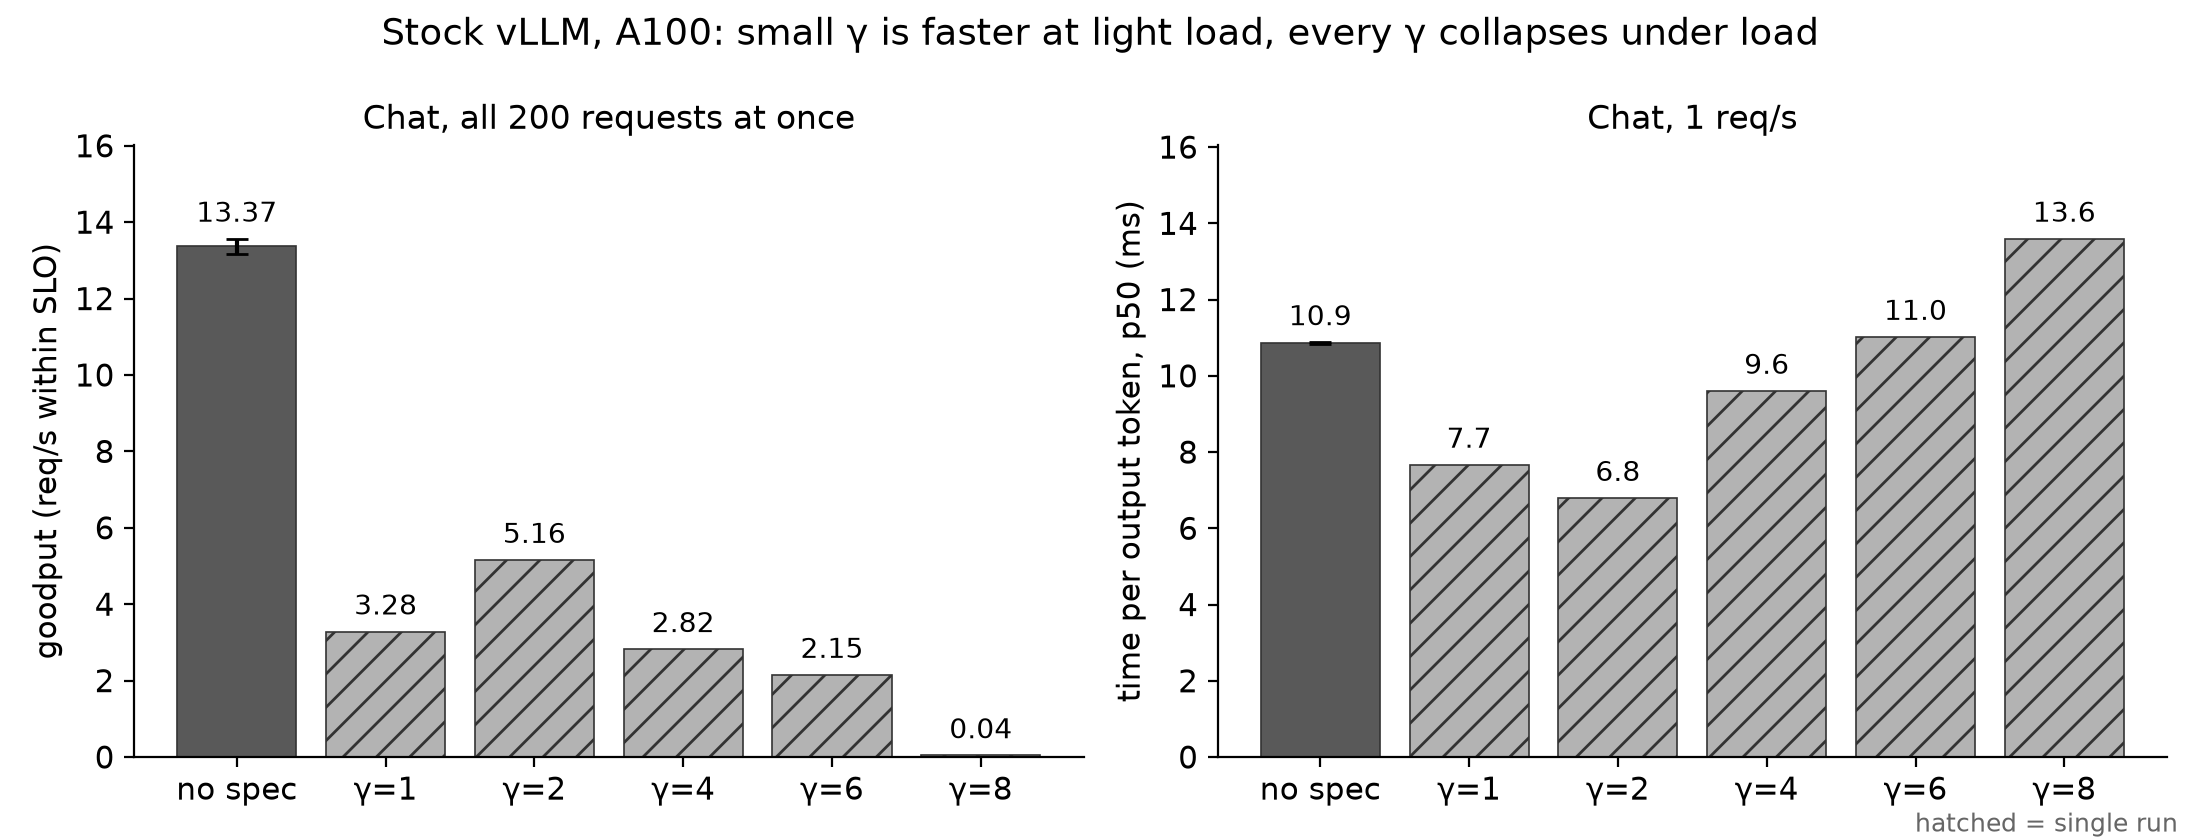
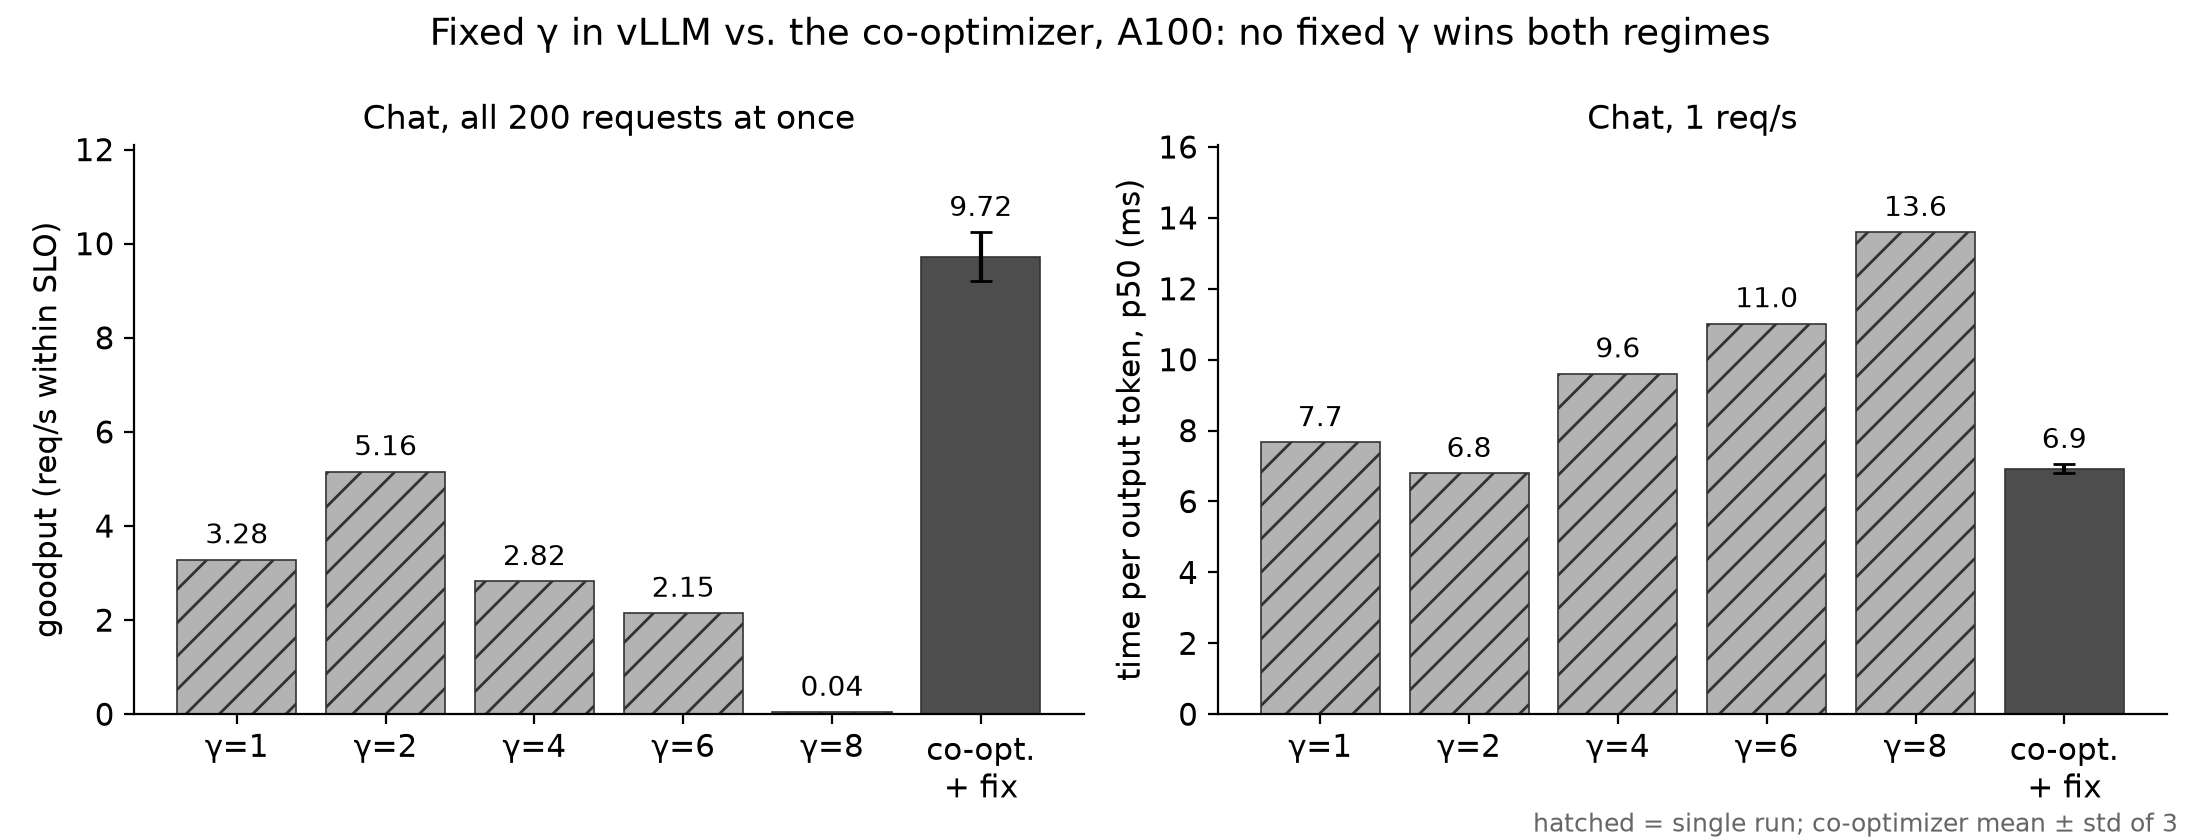
README and figures: drop stock vLLM (no speculation) as a baseline
The no-speculation reference is now the same engine with speculation off
(ours-static-no-spec). vLLM appears only through its speculative
configurations (fixed γ, adaptive γ schedule).

- README: status/claim, TL;DR, §2, Finding 1 (adds measured A100 regret),
  §6 names, §8 baselines, §9.1/9.2/9.6/9.7, reproduce commands, §14
- Figure 1: fixed γ in vLLM vs. the co-optimizer (was: vs. vllm-default)
- slide_figures/regret: no vllm-default in tables or usage examples

diff --git a/analysis/slide_figures.py b/analysis/slide_figures.py
@@ -65,13 +65,13 @@ def bars(ax, labels, vals, colors, fmt="{:.2f}", horizontal=False):
 
 
 def fig_static_spec():
-    exps = ["vllm-default", "vllm-draft-spec-gamma1", "vllm-draft-spec-gamma2", "vllm-draft-spec-gamma4",
-            "vllm-draft-spec-gamma6", "vllm-draft-spec-gamma8"]
-    labels = ["no spec", "γ=1", "γ=2", "γ=4", "γ=6", "γ=8"]
+    exps = ["vllm-draft-spec-gamma1", "vllm-draft-spec-gamma2", "vllm-draft-spec-gamma4",
+            "vllm-draft-spec-gamma6", "vllm-draft-spec-gamma8", "ours-cooptimizer-preempt-backoff"]
+    labels = ["γ=1", "γ=2", "γ=4", "γ=6", "γ=8", "co-opt.\n+ fix"]
     sat = [metric(e, "chat", "saturation", "goodput_req_s") for e in exps]
     light = [metric(e, "chat", "1rps", "tpot_p50") for e in exps]
     light = [(m * 1000, s * 1000, n) for m, s, n in light]
-    colors = ["0.35"] + ["0.7"] * 5
+    colors = ["0.7"] * 5 + ["0.3"]
     fig, (a, b) = plt.subplots(1, 2, figsize=(11, 4.2))
     bars(a, labels, sat, colors)
     a.set_title("Chat, all 200 requests at once")
@@ -79,8 +79,8 @@ def fig_static_spec():
     bars(b, labels, light, colors, fmt="{:.1f}")
     b.set_title("Chat, 1 req/s")
     b.set_ylabel("time per output token, p50 (ms)")
-    fig.suptitle("Stock vLLM, A100: small γ is faster at light load, every γ collapses under load")
-    fig.text(0.99, 0.01, "hatched = single run", ha="right", fontsize=9, color="0.4")
+    fig.suptitle("Fixed γ in vLLM vs. the co-optimizer, A100: no fixed γ wins both regimes")
+    fig.text(0.99, 0.01, "hatched = single run; co-optimizer mean ± std of 3", ha="right", fontsize=9, color="0.4")
     save(fig, "1_static_spec_regimes.png")
 
 
@@ -178,7 +178,7 @@ def fig_phase_shift():
     save(fig, "5_phase_shift_trace.png")
 
     print("\nPhase-shift SLO attainment per phase (mean over repeats)")
-    for exp in ["vllm-default", "ours-static-no-spec", "vllm-adaptive-spec-schedule", "ours-nightjar-like",
+    for exp in ["ours-static-no-spec", "vllm-adaptive-spec-schedule", "ours-nightjar-like",
                 "ours-independent-controllers", "ours-cooptimizer", "ours-independent-controllers-preempt-backoff", "ours-cooptimizer-preempt-backoff"]:
         per = [phase_slo(r) for r in runs(exp, "phase-shift", "scheduled")]
         phases = sorted(per[0], key=lambda p: bounds[p][0])
@@ -188,7 +188,7 @@ def fig_phase_shift():
 
 def table_light_load():
     print("\nLight load, chat (TPOT p50 / p99 ms, mean over repeats)")
-    for exp in ["vllm-default", "ours-static-no-spec", "vllm-draft-spec-gamma4", "vllm-adaptive-spec-schedule",
+    for exp in ["ours-static-no-spec", "vllm-draft-spec-gamma4", "vllm-adaptive-spec-schedule",
                 "ours-independent-controllers", "ours-cooptimizer", "ours-independent-controllers-preempt-backoff", "ours-cooptimizer-preempt-backoff"]:
         cells = []
         for load in ["1rps", "4rps"]:

diff --git a/analysis/regret.py b/analysis/regret.py
@@ -5,8 +5,8 @@ and report every configuration's shortfall ("regret") relative to it. A configur
 best somewhere but far from best elsewhere is regime-specific; the claim is that every static
 configuration has a large regret in at least one regime.
 
-    python -m analysis.regret --configs vllm-default vllm-draft-spec-gamma4 vllm-cpu-kv-offload
-    python -m analysis.regret --configs vllm-default ours-static-no-spec ours-cooptimizer --md out.md
+    python -m analysis.regret --profile a100-22gb --configs ours-static-no-spec vllm-draft-spec-gamma4 ours-cooptimizer
+    python -m analysis.regret --profile a100-22gb --configs ours-static-no-spec ours-nightjar-like ours-cooptimizer --md out.md
 """
 import argparse
 import json

diff --git a/README.md b/README.md
@@ -5,14 +5,14 @@
 M.Tech thesis project (MTP), School of AI and Data Science, IIT Jodhpur<br>
 **Author:** Mohsin Sheikh Mubarak (M25AI2074) · **Supervisor:** Prof. Navchetan Awasthi
 
-> **Status (23 Oct 2026):** all experiments are complete. The final runs used an **A100 80 GB capped at
+> **Status (6 Nov 2026):** all experiments are complete. The final runs used an **A100 80 GB capped at
 > 22 GB** (the RTX 4090's memory budget), with **3 repeats** for every main configuration. The 4090
 > rehearsal (single runs) is summarised in §9.7. Every number in this README is measured, and is
 > labelled with the hardware it came from.
 >
-> **Claim, after the A100 runs:** the contribution is **coordination and robustness** of speculative
-> serving, not raw speed. On the A100, stock vLLM without speculation still has the highest goodput under
-> load. Our engine without speculation trails it by 3–14 %, so most of that gap is the engine.
+> **Claim:** the contribution is **coordination and robustness** of speculative serving: getting
+> speculation's latency at light load without its collapse under load. Every speculative system is compared
+> on one GPU and memory budget, with the same engine running with speculation off as the reference.
 
 ---
 
@@ -55,28 +55,22 @@ This project builds an inference engine whose speculation, memory and scheduling
 | **Coordination matters** | The same three controllers with a shared view vs. independent: **+34 %** goodput on the phase-shift workload (3.15 vs. 2.35) and burst-phase SLO **0.42 vs. 0.07**; **+38 %** at chat saturation in the original version; better or equal elsewhere (one confounded case, §9.3) |
 | **Speculation's latency without its collapse** | Per-token latency **6.9 ms vs. 12.5 ms** (−45 %) against the same engine without speculation at 1 req/s; under load within ±4 % of it on mixed-bursty, phase-shift and 16 req/s (−15 % at chat saturation) |
 | **Beats vLLM's own adaptive speculation** | vs. vLLM's built-in batch-size γ schedule: **4.1×** goodput at saturation (9.72 vs. 2.38), **2×** on mixed-bursty (0.67 vs. 0.33), +32 % on phase-shift |
+| **Beats a Nightjar-like design** | γ controller plus drafter parking only, in the same engine: **+29 %** on mixed-bursty, equal on phase-shift (3.15 vs. 3.13), +1 % at 16 req/s |
 | **Correct and lossless** | Matches HuggingFace within HF's own kernel-to-kernel noise; speculation is lossless; INT8 KV compression costs **+0.06 %** perplexity |
-| **Honest limitation** | Stock vLLM without speculation still leads under load: our system trails it by 2–6 % on 16 req/s, mixed-bursty and phase-shift, and by 27 % at chat saturation. Our engine without any speculation trails it by 3–14 %, so most of the gap is the engine; at saturation, part of it is the control policy |
 
 ---
 
 ## 2. Why this matters
 
 - **Inference is where LLM cost goes.** Every request pays it, so efficiency gains compound across all traffic.
-- **The same GPU serves very differently depending on configuration.** Our measurements show large gaps between configurations on identical hardware.
-- **Long context collapses throughput.** Stock vLLM on the 4090, 8 concurrent requests:
-
-| Prompt length | Output tok/s | Change | TTFT p99 |
-|---|---|---|---|
-| 1 K | 331 | — | 0.8 s |
-| 4 K | 172 | −48 % | 3.3 s |
-| 8 K | 86 | **−74 %** | 9.9 s |
+- **The same GPU serves very differently depending on configuration.** On the A100 (22 GB), vLLM with a fixed γ ranges from 0.04 to 5.16 goodput at chat saturation depending on γ alone (§9.2).
+- **Speculation is a double-edged tool.** It cuts per-token latency by about 45 % at light load, but under load the draft model's compute and memory turn it into a net loss unless it is controlled.
 
 ---
 
 ## 3. The problem: regime-specific configurations, coupled axes
 
-**Finding 1: every static configuration is wrong somewhere.** On the A100 (22 GB), stock vLLM reaches 13.37 goodput at chat saturation without speculation, but only **0.04–5.16** with any fixed γ ∈ {1, 2, 4, 6, 8} (single runs). At 1 req/s the order flips: γ = 2 takes **6.8 ms** per token against 10.9 ms without speculation. On the 4090 rehearsal, each vLLM configuration fell **≥ 80 % short of the best configuration in at least one regime** (`analysis/regret.py`).
+**Finding 1: every static configuration is wrong somewhere.** On the A100 (22 GB), vLLM with a fixed γ ∈ {1, 2, 4, 6, 8} takes **6.8–13.6 ms** per token at 1 req/s, against 12.5 ms for our engine without speculation. At chat saturation, the same fixed-γ configurations reach only **0.04–5.16** goodput, against 11.48 for our engine without speculation (fixed-γ runs are single runs). The γ that is best at light load (γ = 2) is not the best under load, and no fixed γ is safe under load. Measured as regret (`analysis/regret.py`, how far a configuration falls from the best one in its worst regime), on the A100 the static configurations score **77 %** (no speculation, at 1 req/s TPOT) and **78 %** (vLLM γ = 4, at chat-saturation goodput), against **36 %** for the co-optimizer. On the 4090 rehearsal, every static configuration fell ≥ 80 % short in at least one regime.
 
 **Finding 2: the axes are coupled through memory.** On a 24 GB budget, the 1B draft model plus its KV pool take about half of the KV capacity. Under load, speculation therefore hurts mainly by **queueing**, not by compute (4090 rehearsal numbers):
 - choosing γ = 0 does not return that memory;
@@ -105,7 +99,7 @@ A γ decision is therefore also a memory and admission decision.
 3. **A coordination ablation.** The *same* controllers with and without the shared view isolate the value of coordination itself. The system is also evaluated against a Nightjar-like design and against vLLM's built-in adaptive speculation.
 4. **An engine to evaluate this fairly:**
    - built from scratch and correct within HuggingFace's own noise;
-   - runs **vLLM's own kernels** (FlashAttention, fused RMSNorm, RoPE, SiLU-mul, KV write), so differences come from control, not kernels;
+   - runs **vLLM's own kernels** (FlashAttention, fused RMSNorm, RoPE, SiLU-mul, KV write), so differences between our configurations come from control, not kernels;
    - adds prefix caching and in-buffer drafter parking with live block migration. The parking mechanism is a variant of Nightjar's drafter offload.
 
 **Not claimed:** any single mechanism as new. Adaptive γ, drafter offload, KV tiering and prefix caching all have prior art. The contribution is **coordinated control, and the evidence that coordination itself pays**.
@@ -193,8 +187,7 @@ Every 8 engine steps, a `MetricsSnapshot` is taken. It covers α, γ in use, KV 
 | `ours-nightjar-like` | γ controller plus drafter parking only (the closest prior design) |
 | `ours-static-spec-gamma4` / `ours-static-no-spec` | Same engine, fixed policy, with or without a draft model |
 | `ours-gamma-controller-only`, `ours-kv-controller-only`, `ours-scheduler-controller-only`, `ours-gamma-and-kv`, … | Per-controller and pairwise ablations (`*-no-elastic` = without drafter parking) |
-| `vllm-default` / `vllm-default-no-prefix-cache` | Stock vLLM 0.31 |
-| `vllm-draft-spec-gamma{1,2,4,6,8}`, `vllm-ngram-spec-gamma4` | vLLM with fixed-γ speculation |
+| `vllm-draft-spec-gamma{1,2,4,6,8}`, `vllm-ngram-spec-gamma4` | vLLM 0.31 with fixed-γ speculation |
 | `vllm-adaptive-spec-schedule` | vLLM's built-in batch-size γ schedule (γ 4 / 2 / 0) |
 | `vllm-cpu-kv-offload`, `vllm-kv-budget-*` | CPU KV offload (adds host memory, so not a baseline here, see §14); memory-pressure sweep |
 
@@ -220,7 +213,7 @@ Older commits used short codes (A2, B1D_g4, C4_el, W1–W4, …). [`bench/names.
 | | |
 |---|---|
 | Target / draft | `unsloth/Meta-Llama-3.1-8B-Instruct` / `unsloth/Llama-3.2-1B-Instruct` (BF16; ungated mirrors of Meta's weights) |
-| Baseline system | vLLM **0.31.0** (PyTorch 2.13, CUDA 13.0); defaults 256 sequences and 2,048 batched tokens on both GPUs |
+| Baselines | **Same engine** with speculation off (`ours-static-no-spec`), the reference for every speculative system; a **Nightjar-like** design in the same engine; vLLM **0.31.0**'s fixed-γ and adaptive speculation (PyTorch 2.13, CUDA 13.0). Batch defaults of 256 sequences and 2,048 batched tokens everywhere |
 | Rehearsal | 1× RTX 4090 24 GB, 16 K context, 1 repeat |
 | **Final** | 1× A100 80 GB **capped at 22 GiB** (profile `a100-22gb`: the 4090's budget, so the 8B weights leave about 5 GiB of KV), 16 K context, **3 repeats** for every main configuration, single runs for ablations and the fixed-γ sweep |
 | Also run | A100 at full memory (profile `a100`, single runs, `results/a100/`): calibration and the context-length sweep |
@@ -254,7 +247,6 @@ Older commits used short codes (A2, B1D_g4, C4_el, W1–W4, …). [`bench/names.
 
 | | 1 rps TPOT p50 (ms) | 16 rps goodput (TTFT p99) | Saturation goodput | Long-context tok/s | Mixed-bursty goodput | Phase-shift goodput | Burst-phase SLO |
 |---|---|---|---|---|---|---|---|
-| `vllm-default` | 10.9 ± 0.0 | 10.13 ± 0.36 (0.19 s) | 13.37 ± 0.20 | 116 | 0.72 ± 0.05 | 3.34 ± 0.14 | 0.51 |
 | `vllm-adaptive-spec-schedule` | 8.3 ± 1.0 | 7.83 ± 0.26 (4.12 s) | 2.38 ± 0.22 | 82 | 0.33 ± 0.01 | 2.39 ± 0.07 | 0.13 |
 | `ours-static-no-spec` | 12.5 ± 0.0 | 9.58 ± 0.29 (0.14 s) | 11.48 ± 1.53 | 111 | 0.66 ± 0.05 | 3.23 ± 0.01 | 0.46 |
 | `ours-nightjar-like` | 7.1 ± 0.1 | 9.85 ± 0.44 (0.38 s) | 7.59 ± 3.36 † | 101 | 0.52 ± 0.04 | 3.13 ± 0.00 | 0.41 |
@@ -265,12 +257,14 @@ Older commits used short codes (A2, B1D_g4, C4_el, W1–W4, …). [`bench/names.
 
 † Inflated by carry-over between runs (§9.3).
 
-### 9.2 Fixed γ in stock vLLM (single runs except no-spec)
+### 9.2 Fixed γ in vLLM (single runs)
 
-| | no spec | γ=1 | γ=2 | γ=4 | γ=6 | γ=8 |
+| | γ=1 | γ=2 | γ=4 | γ=6 | γ=8 | `ours-cooptimizer-preempt-backoff` (3 reps) |
 |---|---|---|---|---|---|---|
-| Chat saturation goodput | 13.37 | 3.28 | 5.16 | 2.82 | 2.15 | 0.04 |
-| 1 rps TPOT p50 (ms) | 10.9 | 7.7 | 6.8 | 9.6 | 11.0 | 13.6 |
+| Chat saturation goodput | 3.28 | 5.16 | 2.82 | 2.15 | 0.04 | **9.72** |
+| 1 rps TPOT p50 (ms) | 7.7 | 6.8 | 9.6 | 11.0 | 13.6 | **6.9** |
+
+No fixed γ does well in both regimes. The co-optimizer matches the best fixed γ at light load and almost doubles the best fixed γ at saturation.
 
 ### 9.3 Coordination: the same controllers with and without the shared view
 
@@ -335,18 +329,15 @@ backs off on preemptions only.
    +32 % on phase-shift, +27 % at 16 req/s.
 5. **Against the Nightjar-like design:** equal on phase-shift (3.15 vs. 3.13), +29 % on mixed-bursty,
    +1 % at 16 req/s; saturation is confounded by carry-over.
-6. **Stock vLLM still leads under load.** Our system trails it by 2–6 % on 16 req/s, mixed-bursty and
-   phase-shift and by 27 % at saturation. Our engine without speculation trails it by 3–14 %, so most
-   of the gap is the engine.
+6. **What is still lost.** At chat saturation, the system stays 15 % below the same engine with
+   speculation off. Here the best decision is to never draft, and the controllers take time to learn that.
 
 ### 9.7 RTX 4090 rehearsal (single runs)
 
 The full programme was rehearsed on an RTX 4090 (24 GB, 16 K context, single runs; `results/rtx4090/`,
-W&B project `iitj-coopt-rtx4090`). Coordination paid there as well (+51 % at saturation, +33 % at
-16 req/s), and the co-optimizer beat stock vLLM by 84 % at chat saturation. **That last result did not
-hold on the A100:** on the 4090 our engine without speculation also beat stock vLLM at saturation
-(7.40 vs. 5.18 goodput), while on the A100 it trails (11.48 vs. 13.37). This is why the thesis claim
-moved from speed to coordination. The full 4090 tables are in this README's history (commit `3ce4680`).
+W&B project `iitj-coopt-rtx4090`). Coordination paid there as well: +51 % at saturation and +33 % at
+16 req/s, the same direction as on the A100. The full 4090 tables are in this README's history
+(commit `3ce4680`).
 
 ---
 
@@ -364,7 +355,7 @@ python -m bench.workloads --all
 
 # one experiment, or a resumable queue (finished runs are skipped)
 python -m bench.experiment bench/configs/ours-cooptimizer.yaml --profile rtx4090
-setsid nohup bash bench/queue.sh a100 vllm-default ours-static-no-spec ours-cooptimizer ours-independent-controllers > /dev/null 2>&1 &
+setsid nohup bash bench/queue.sh a100-22gb ours-static-no-spec ours-cooptimizer-preempt-backoff ours-independent-controllers-preempt-backoff > /dev/null 2>&1 &
 
 # validation
 python -m pytest -q tests/test_units.py
@@ -373,8 +364,8 @@ python -m tests.elastic_check
 python -m eval.quality q1 && python -m eval.quality q2
 
 # analysis
-python -m bench.compare rtx4090/vllm-default rtx4090/ours-cooptimizer --workload chat
-python -m analysis.regret --configs vllm-default vllm-draft-spec-gamma4 ours-cooptimizer
+python -m bench.compare a100-22gb/ours-static-no-spec a100-22gb/ours-cooptimizer-preempt-backoff --workload chat
+python -m analysis.regret --profile a100-22gb --configs ours-static-no-spec vllm-draft-spec-gamma4 ours-cooptimizer
 python -m analysis.slide_figures          # A100 tables (stdout) and figures/*.png
 bash runpod/sync_from_pod.sh --verify     # mirror pod results to a laptop
 
@@ -446,7 +437,8 @@ Found and fixed during the rehearsal and the A100 runs. Several of these matter 
 ## 14. Limitations and threats to validity
 
 - **Carry-over between runs.** The drafter's parked state carries over between consecutive runs on one server, which inflates some chat-saturation numbers (§9.3). State is not yet reset between runs.
-- **Engine gap.** Stock vLLM without speculation leads under load; our engine without speculation trails it by 3–14 %.
+- **Baseline scope.** The study is about controlling speculative serving. Its no-speculation reference is the same engine with speculation off, and vLLM appears only through its speculative configurations.
+- **Saturation.** Under a saturating load, the system stays 15 % below the same engine without speculation (§9.6).
 - **Ablations, fixed-γ sweep:** single runs. All main configurations have 3 repeats.
 - **CPU KV offload** adds host memory as KV capacity, so it is not a baseline for this GPU-only comparison. Co-optimizing it as a fourth axis is future work.
 - **The Nightjar-like comparison** is our re-implementation of the idea in our engine, not the authors' system.
